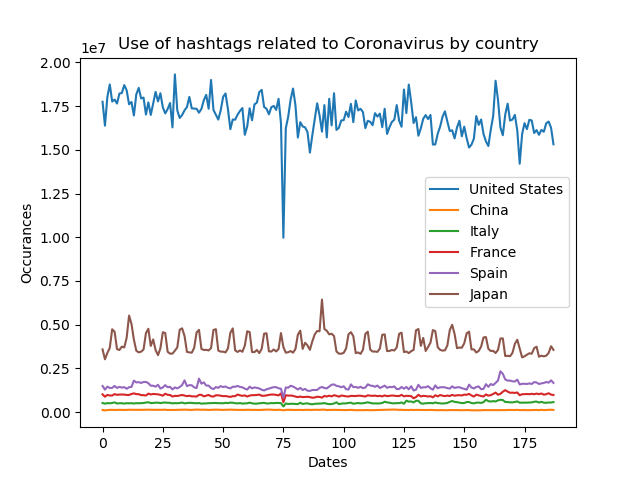
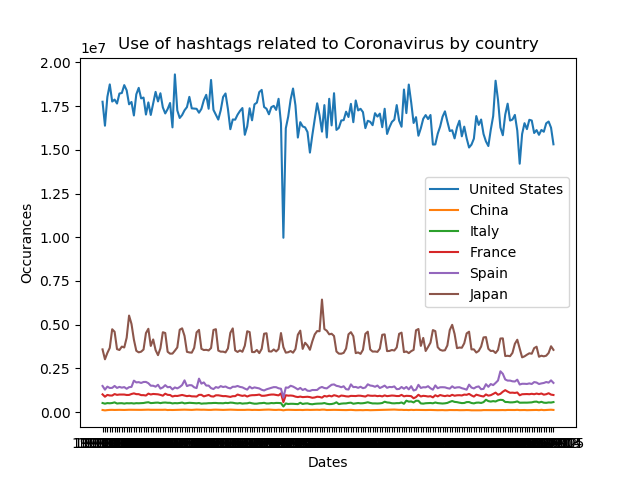
added dates

Changed region(s): [[0.0938, 0.875, 0.9062, 0.9375]]

diff --git a/src/graphy.py b/src/graphy.py
@@ -55,7 +55,7 @@ plt.plot(JP, label = 'Japan')
 plt.title("Use of hashtags related to Coronavirus by country")
 plt.xlabel("Dates")
 plt.ylabel("Occurances")
-#z = np.array(len(dates))
-#plt.xticks(z,dates)
+z = np.arange(len(dates))
+plt.xticks(z,dates)
 plt.legend()
 plt.savefig('test2.png')
